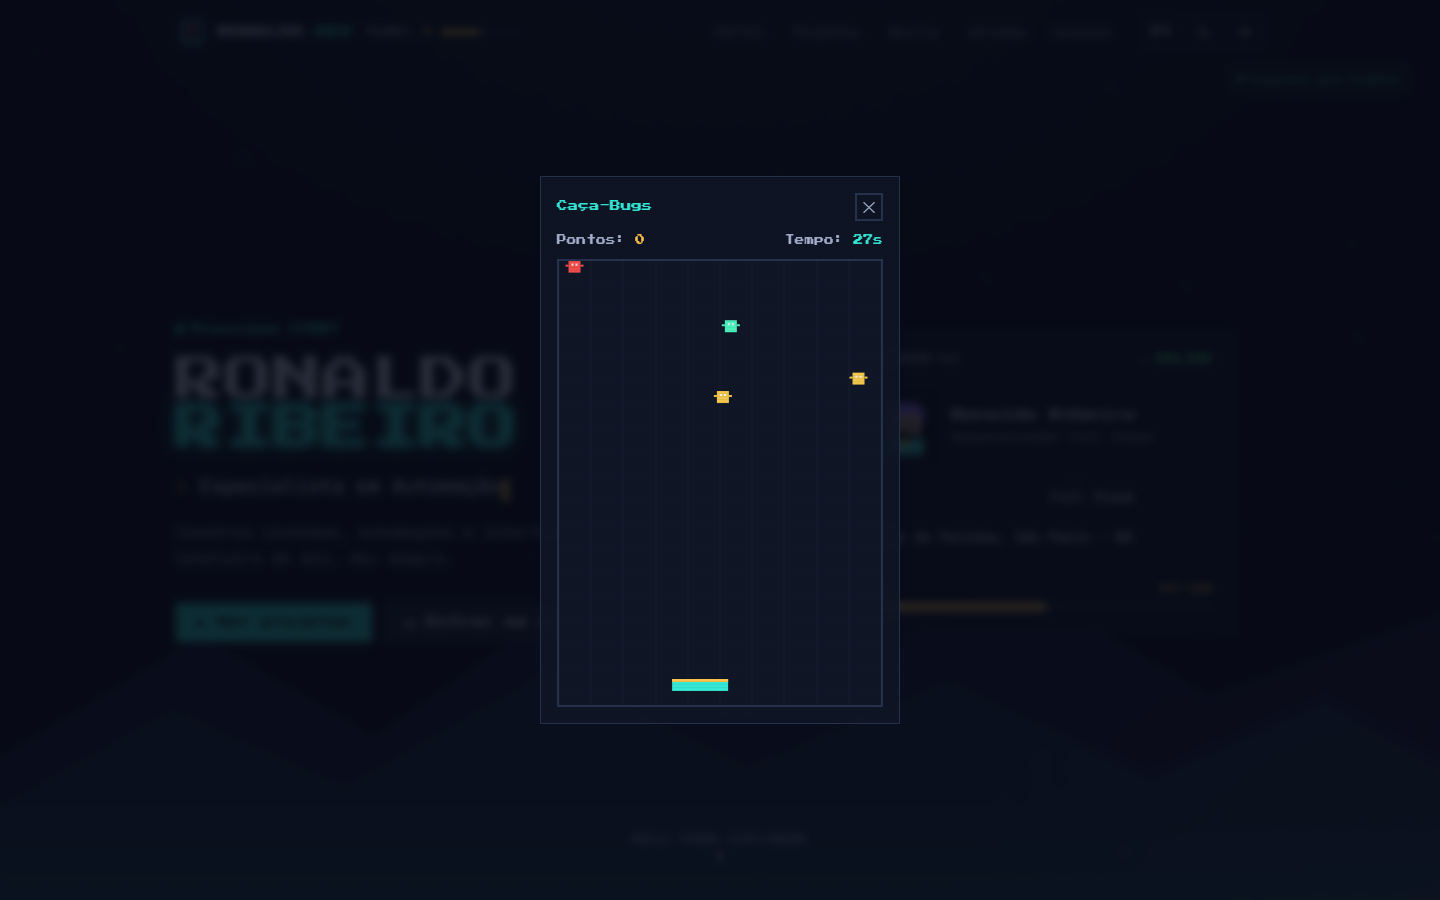
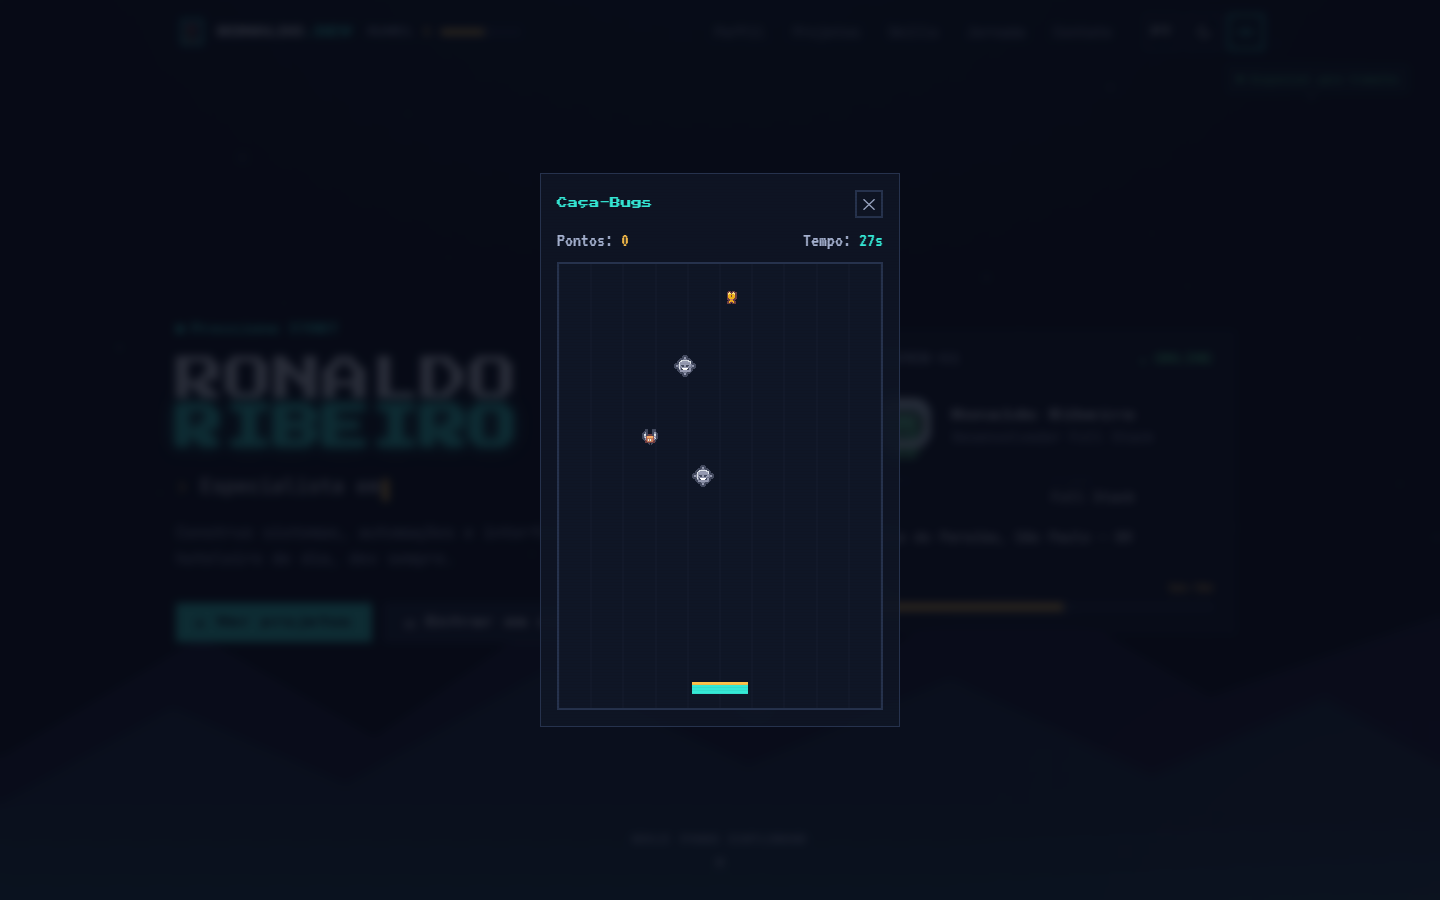
feat: assets reais CC0 (Kenney) + fonte VT323
- Sprites do Kenney Pixel Platformer (CC0): avatar, companheiro e bugs do mini-game
- Sons do Kenney Interface Sounds / Digital Audio (CC0) mapeados por funcao
- Mini-game desenha os sprites de bug (fallback para o desenho autoral)
- Fonte VT323 (OFL) para o HUD do mini-game e o terminal de contato
- CREDITS.md, licenca do Kenney e docs de assets atualizados

diff --git a/src/components/MiniGame.tsx b/src/components/MiniGame.tsx
@@ -1,6 +1,7 @@
 import { useCallback, useEffect, useRef, useState } from 'react';
 import { AnimatePresence, motion } from 'framer-motion';
 import { ui } from '@/data/content';
+import { bugSprites } from '@/data/assets';
 import { useT } from '@/lib/i18n';
 import { useGame } from '@/store/game';
 import { playSfx } from '@/lib/sound';
@@ -17,6 +18,7 @@ interface Bug {
   vy: number;
   hue: number;
   wob: number;
+  sprite: number;
 }
 
 type Phase = 'ready' | 'playing' | 'over';
@@ -42,6 +44,16 @@ export default function MiniGame({ open, onClose }: Props) {
   const running = useRef(false);
   const keys = useRef<{ left: boolean; right: boolean }>({ left: false, right: false });
   const scoreRef = useRef(0);
+  const bugImgs = useRef<HTMLImageElement[]>([]);
+
+  // pré-carrega os sprites de bug (se houver)
+  useEffect(() => {
+    bugImgs.current = bugSprites.map((src) => {
+      const img = new Image();
+      img.src = src;
+      return img;
+    });
+  }, []);
 
   const stopLoop = useCallback(() => {
     running.current = false;
@@ -115,6 +127,7 @@ export default function MiniGame({ open, onClose }: Props) {
           vy: 0.06 + Math.random() * 0.05 + scoreRef.current * 0.002,
           hue: [0, 45, 160, 285][Math.floor(Math.random() * 4)],
           wob: Math.random() * Math.PI * 2,
+          sprite: Math.floor(Math.random() * Math.max(1, bugImgs.current.length)),
         });
       }
 
@@ -159,17 +172,23 @@ export default function MiniGame({ open, onClose }: Props) {
       }
       ctx.globalAlpha = 1;
 
-      // bugs (quadradinho com pernas e olhos)
+      // bugs: usa sprite do Kenney se carregado, senão desenho autoral
+      ctx.imageSmoothingEnabled = false;
       for (const b of bugs.current) {
         const bx = b.x + Math.sin(b.wob) * 6;
-        ctx.fillStyle = `hsl(${b.hue} 85% 62%)`;
-        ctx.fillRect(bx - 6, b.y - 6, 12, 12);
-        ctx.fillStyle = ink;
-        ctx.fillRect(bx - 3, b.y - 3, 2, 2);
-        ctx.fillRect(bx + 1, b.y - 3, 2, 2);
-        ctx.fillStyle = `hsl(${b.hue} 85% 62%)`;
-        ctx.fillRect(bx - 9, b.y - 2, 3, 2);
-        ctx.fillRect(bx + 6, b.y - 2, 3, 2);
+        const img = bugImgs.current[b.sprite];
+        if (img && img.complete && img.naturalWidth > 0) {
+          ctx.drawImage(img, Math.round(bx - 11), Math.round(b.y - 11), 22, 22);
+        } else {
+          ctx.fillStyle = `hsl(${b.hue} 85% 62%)`;
+          ctx.fillRect(bx - 6, b.y - 6, 12, 12);
+          ctx.fillStyle = ink;
+          ctx.fillRect(bx - 3, b.y - 3, 2, 2);
+          ctx.fillRect(bx + 1, b.y - 3, 2, 2);
+          ctx.fillStyle = `hsl(${b.hue} 85% 62%)`;
+          ctx.fillRect(bx - 9, b.y - 2, 3, 2);
+          ctx.fillRect(bx + 6, b.y - 2, 3, 2);
+        }
       }
 
       // catcher (rede)
@@ -262,7 +281,7 @@ export default function MiniGame({ open, onClose }: Props) {
               </button>
             </div>
 
-            <div className="mb-3 flex items-center justify-between font-pixel text-[0.6rem]">
+            <div className="mb-3 flex items-center justify-between font-crt text-xl leading-none">
               <span className="text-dim">
                 {t(ui.minigame.score)}: <span className="text-accent">{score}</span>
               </span>

diff --git a/src/data/assets.ts b/src/data/assets.ts
@@ -26,10 +26,30 @@ export interface CustomAssets {
 }
 
 export const customAssets: CustomAssets = {
-  heroAvatar: '',
-  companion: '',
-  sfx: {},
+  // Sprites do Kenney "Pixel Platformer" (CC0). Troque livremente.
+  heroAvatar: '/assets/sprites/hero.png',
+  companion: '/assets/sprites/companion.png',
+  // Sons do Kenney "Interface Sounds" / "Digital Audio" (CC0).
+  sfx: {
+    select: '/assets/audio/select.ogg',
+    hover: '/assets/audio/hover.ogg',
+    open: '/assets/audio/open.ogg',
+    coin: '/assets/audio/coin.ogg',
+    levelup: '/assets/audio/levelup.ogg',
+    achievement: '/assets/audio/achievement.ogg',
+    error: '/assets/audio/error.ogg',
+    victory: '/assets/audio/victory.ogg',
+    secret: '/assets/audio/secret.ogg',
+  },
 };
+
+/** Sprites de "bug" usados no mini-game (Kenney, CC0). Vazio = usa o desenho autoral. */
+export const bugSprites: string[] = [
+  '/assets/sprites/bug1.png',
+  '/assets/sprites/bug2.png',
+  '/assets/sprites/bug3.png',
+  '/assets/sprites/bug4.png',
+];
 
 /** Normaliza para `undefined` quando o caminho está vazio. */
 export function asset(path?: string): string | undefined {

diff --git a/src/components/Contact.tsx b/src/components/Contact.tsx
@@ -111,11 +111,11 @@ export default function Contact() {
       <div className="grid grid-cols-1 gap-6 lg:grid-cols-[1.15fr_0.85fr]">
         {/* console/formulário */}
         <div className="scanlines panel relative min-h-[24rem] p-5 sm:p-7">
-          <div className="mb-5 flex items-center gap-2 border-b border-line pb-3 font-pixel text-[0.6rem] text-dim">
+          <div className="mb-5 flex items-center gap-2 border-b border-line pb-3 text-dim">
             <span className="h-2 w-2 bg-danger" />
             <span className="h-2 w-2 bg-accent" />
             <span className="h-2 w-2 bg-grass" />
-            <span className="ml-2">contato.exe</span>
+            <span className="ml-2 font-crt text-lg leading-none text-primary">~/contato.exe</span>
           </div>
 
           <AnimatePresence mode="wait">

diff --git a/index.html b/index.html
@@ -26,7 +26,7 @@
     <link rel="preconnect" href="https://fonts.googleapis.com" />
     <link rel="preconnect" href="https://fonts.gstatic.com" crossorigin />
     <link
-      href="https://fonts.googleapis.com/css2?family=JetBrains+Mono:wght@400;500;700&family=Press+Start+2P&display=swap"
+      href="https://fonts.googleapis.com/css2?family=JetBrains+Mono:wght@400;500;700&family=Press+Start+2P&family=VT323&display=swap"
       rel="stylesheet"
     />
   </head>

diff --git a/tailwind.config.js b/tailwind.config.js
@@ -20,6 +20,7 @@ export default {
       fontFamily: {
         pixel: ['"Press Start 2P"', 'monospace'],
         mono: ['"JetBrains Mono"', 'ui-monospace', 'SFMono-Regular', 'Menlo', 'monospace'],
+        crt: ['"VT323"', '"JetBrains Mono"', 'monospace'],
       },
       boxShadow: {
         glow: '0 0 0 1px rgb(var(--c-primary) / 0.4), 0 0 24px -6px rgb(var(--c-primary) / 0.55)',

diff --git a/CREDITS.md b/CREDITS.md
@@ -1,0 +1,25 @@
+# Créditos
+
+Este projeto usa assets de terceiros com licença aberta. Nenhum deles exige atribuição,
+mas creditar é uma boa prática — e um agradecimento a quem disponibiliza material livre.
+
+## Sprites e sons
+
+- **Kenney — Pixel Platformer** (personagens usados como avatar, companheiro e "bugs" do mini-game)
+  Licença **CC0 1.0** (domínio público). https://kenney.nl/assets/pixel-platformer
+- **Kenney — Interface Sounds** (cliques, hover, confirmação, erro, abrir)
+  Licença **CC0 1.0**. https://kenney.nl/assets/interface-sounds
+- **Kenney — Digital Audio** (moeda, level up, vitória, som secreto)
+  Licença **CC0 1.0**. https://kenney.nl/assets/digital-audio
+
+Cópia da licença do Kenney em [`public/assets/KENNEY-License.txt`](public/assets/KENNEY-License.txt).
+
+> Os efeitos de som chiptune sintetizados (Web Audio) continuam disponíveis como fallback:
+> se você remover os arquivos de `public/assets/audio/` e limpar `customAssets.sfx`, o site
+> volta a gerar os sons por código.
+
+## Fontes
+
+- **Press Start 2P** — títulos. Licença SIL Open Font License. https://fonts.google.com/specimen/Press+Start+2P
+- **VT323** — terminal CRT. Licença SIL Open Font License. https://fonts.google.com/specimen/VT323
+- **JetBrains Mono** — texto corrido. Licença SIL Open Font License. https://fonts.google.com/specimen/JetBrains+Mono

diff --git a/README.md b/README.md
@@ -109,8 +109,11 @@ autorais que já vêm no projeto. Detalhes em [`public/assets/README.md`](public
 
 ## Créditos
 
-- Tipografia: [Press Start 2P](https://fonts.google.com/specimen/Press+Start+2P) e [JetBrains Mono](https://fonts.google.com/specimen/JetBrains+Mono) (Google Fonts, SIL Open Font License).
-- Pixel art, sons e demais elementos visuais são autorais.
+- Sprites e efeitos sonoros: **[Kenney](https://kenney.nl/)** (Pixel Platformer, Interface Sounds, Digital Audio) — licença **CC0**.
+- Tipografia: [Press Start 2P](https://fonts.google.com/specimen/Press+Start+2P), [VT323](https://fonts.google.com/specimen/VT323) e [JetBrains Mono](https://fonts.google.com/specimen/JetBrains+Mono) (SIL Open Font License).
+- Efeitos chiptune sintetizados (fallback) e demais elementos de UI são autorais.
+
+Detalhes em [CREDITS.md](CREDITS.md).
 
 ## Licença
 

diff --git a/public/assets/README.md b/public/assets/README.md
@@ -32,4 +32,12 @@ export const customAssets: CustomAssets = {
 
 Onde ficar em branco, o site usa a arte e o som autorais que já vêm no projeto.
 
-> Projeto pessoal e privado: os assets que você adicionar aqui são sua escolha.
+## O que já vem incluído
+
+- `sprites/` — personagens do **Kenney Pixel Platformer** (CC0): `hero.png`, `companion.png` e `bug1..4.png` (mini-game).
+- `audio/` — efeitos do **Kenney Interface Sounds / Digital Audio** (CC0), nomeados por função (`select`, `coin`, `levelup`, …).
+
+Tudo CC0 (domínio público) — pode trocar, remover ou substituir pelos seus arquivos à vontade.
+Se limpar os caminhos em `src/data/assets.ts`, o site volta à arte e ao som autorais (chiptune sintetizado).
+
+> Projeto pessoal e privado: os assets são sua escolha.
